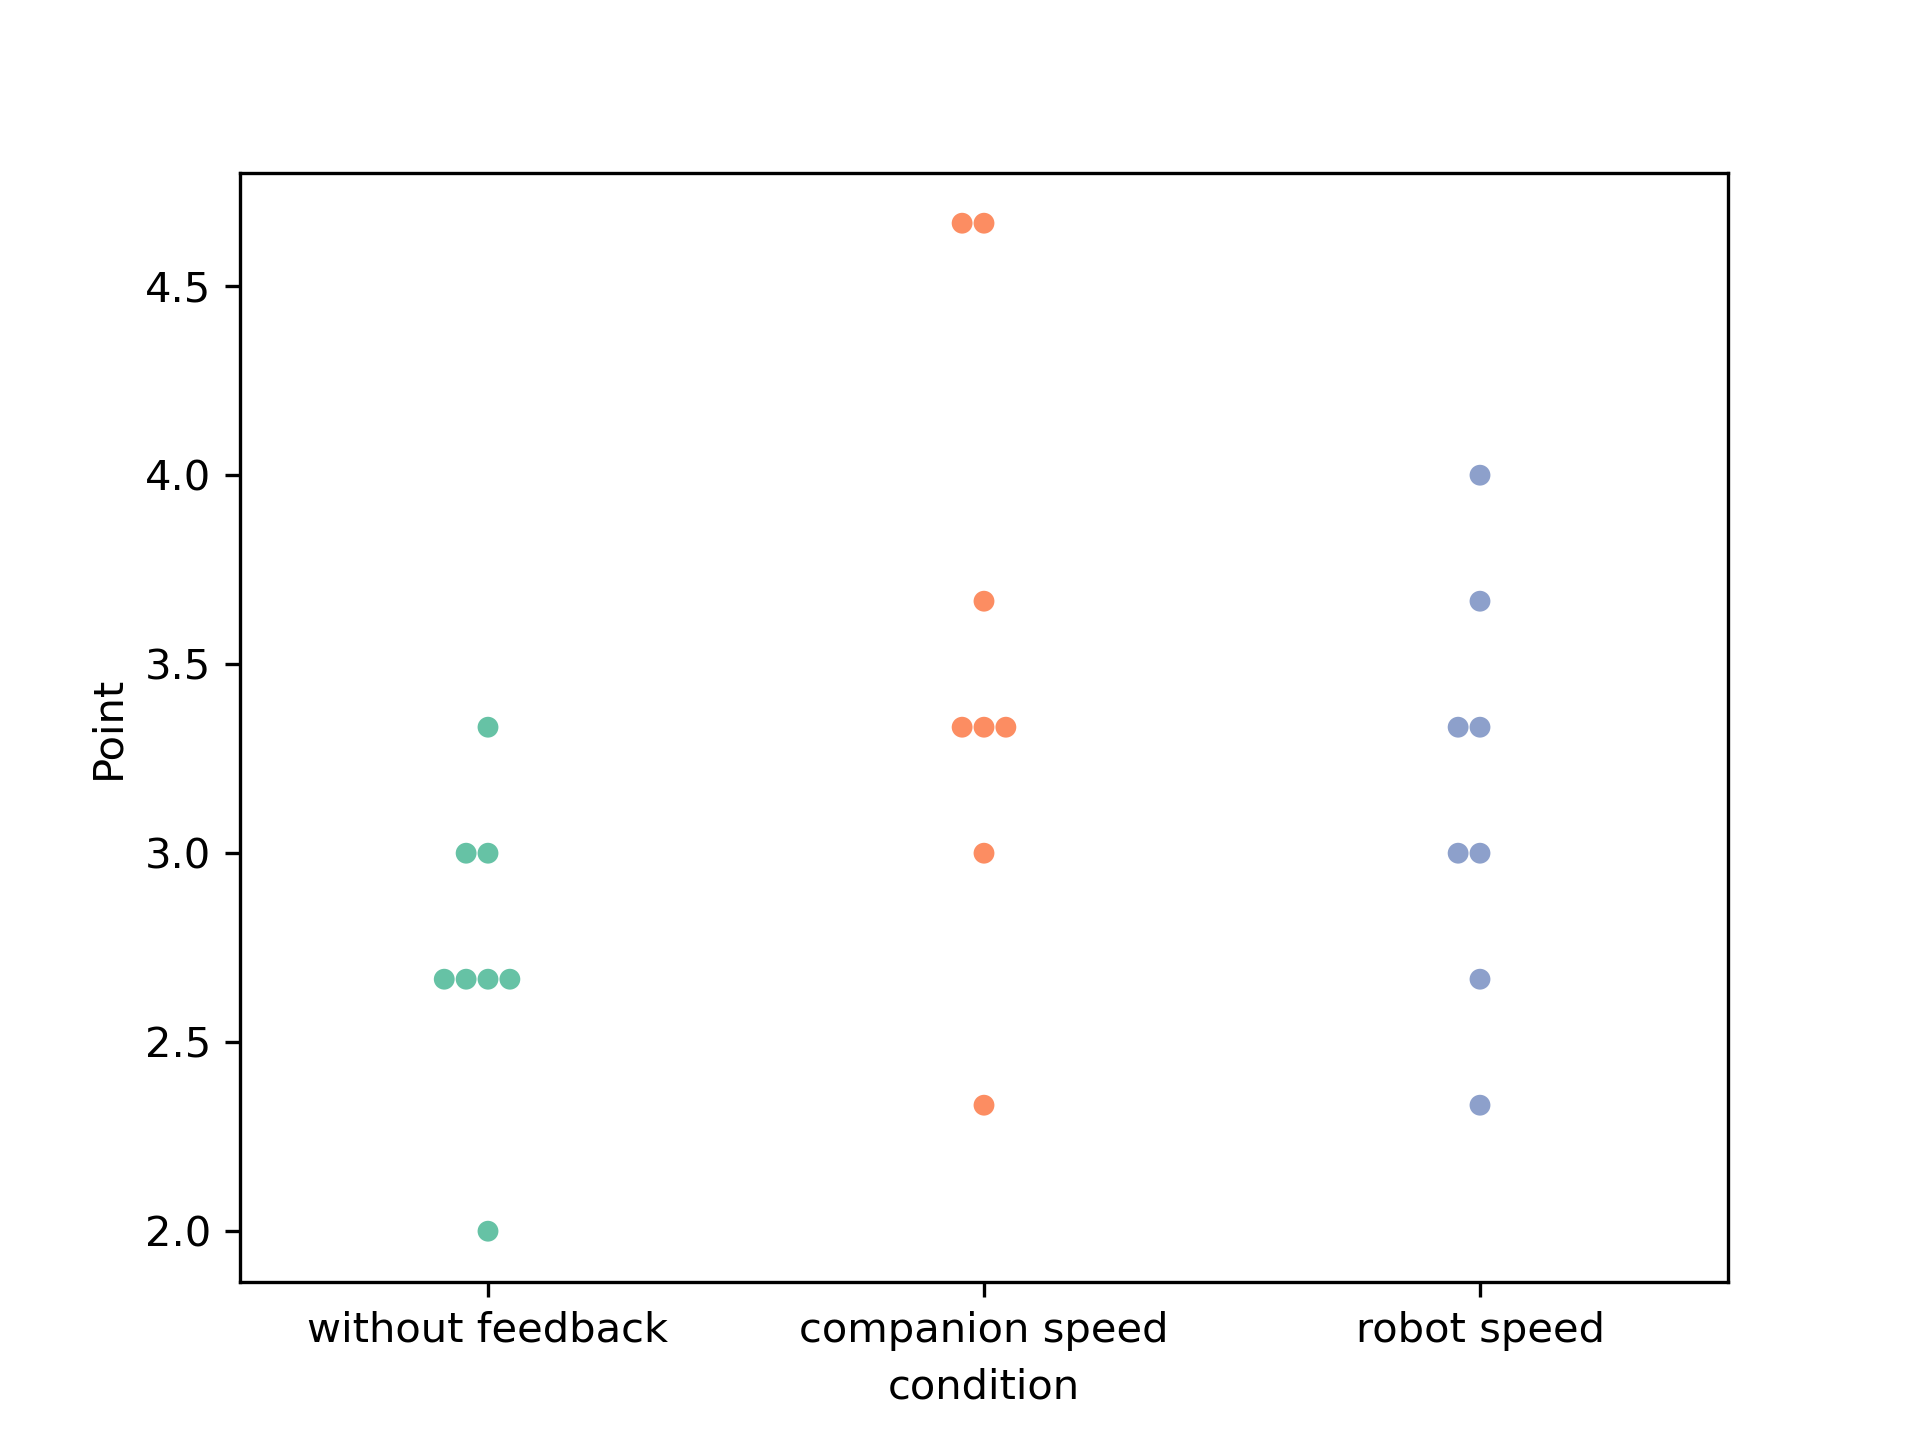
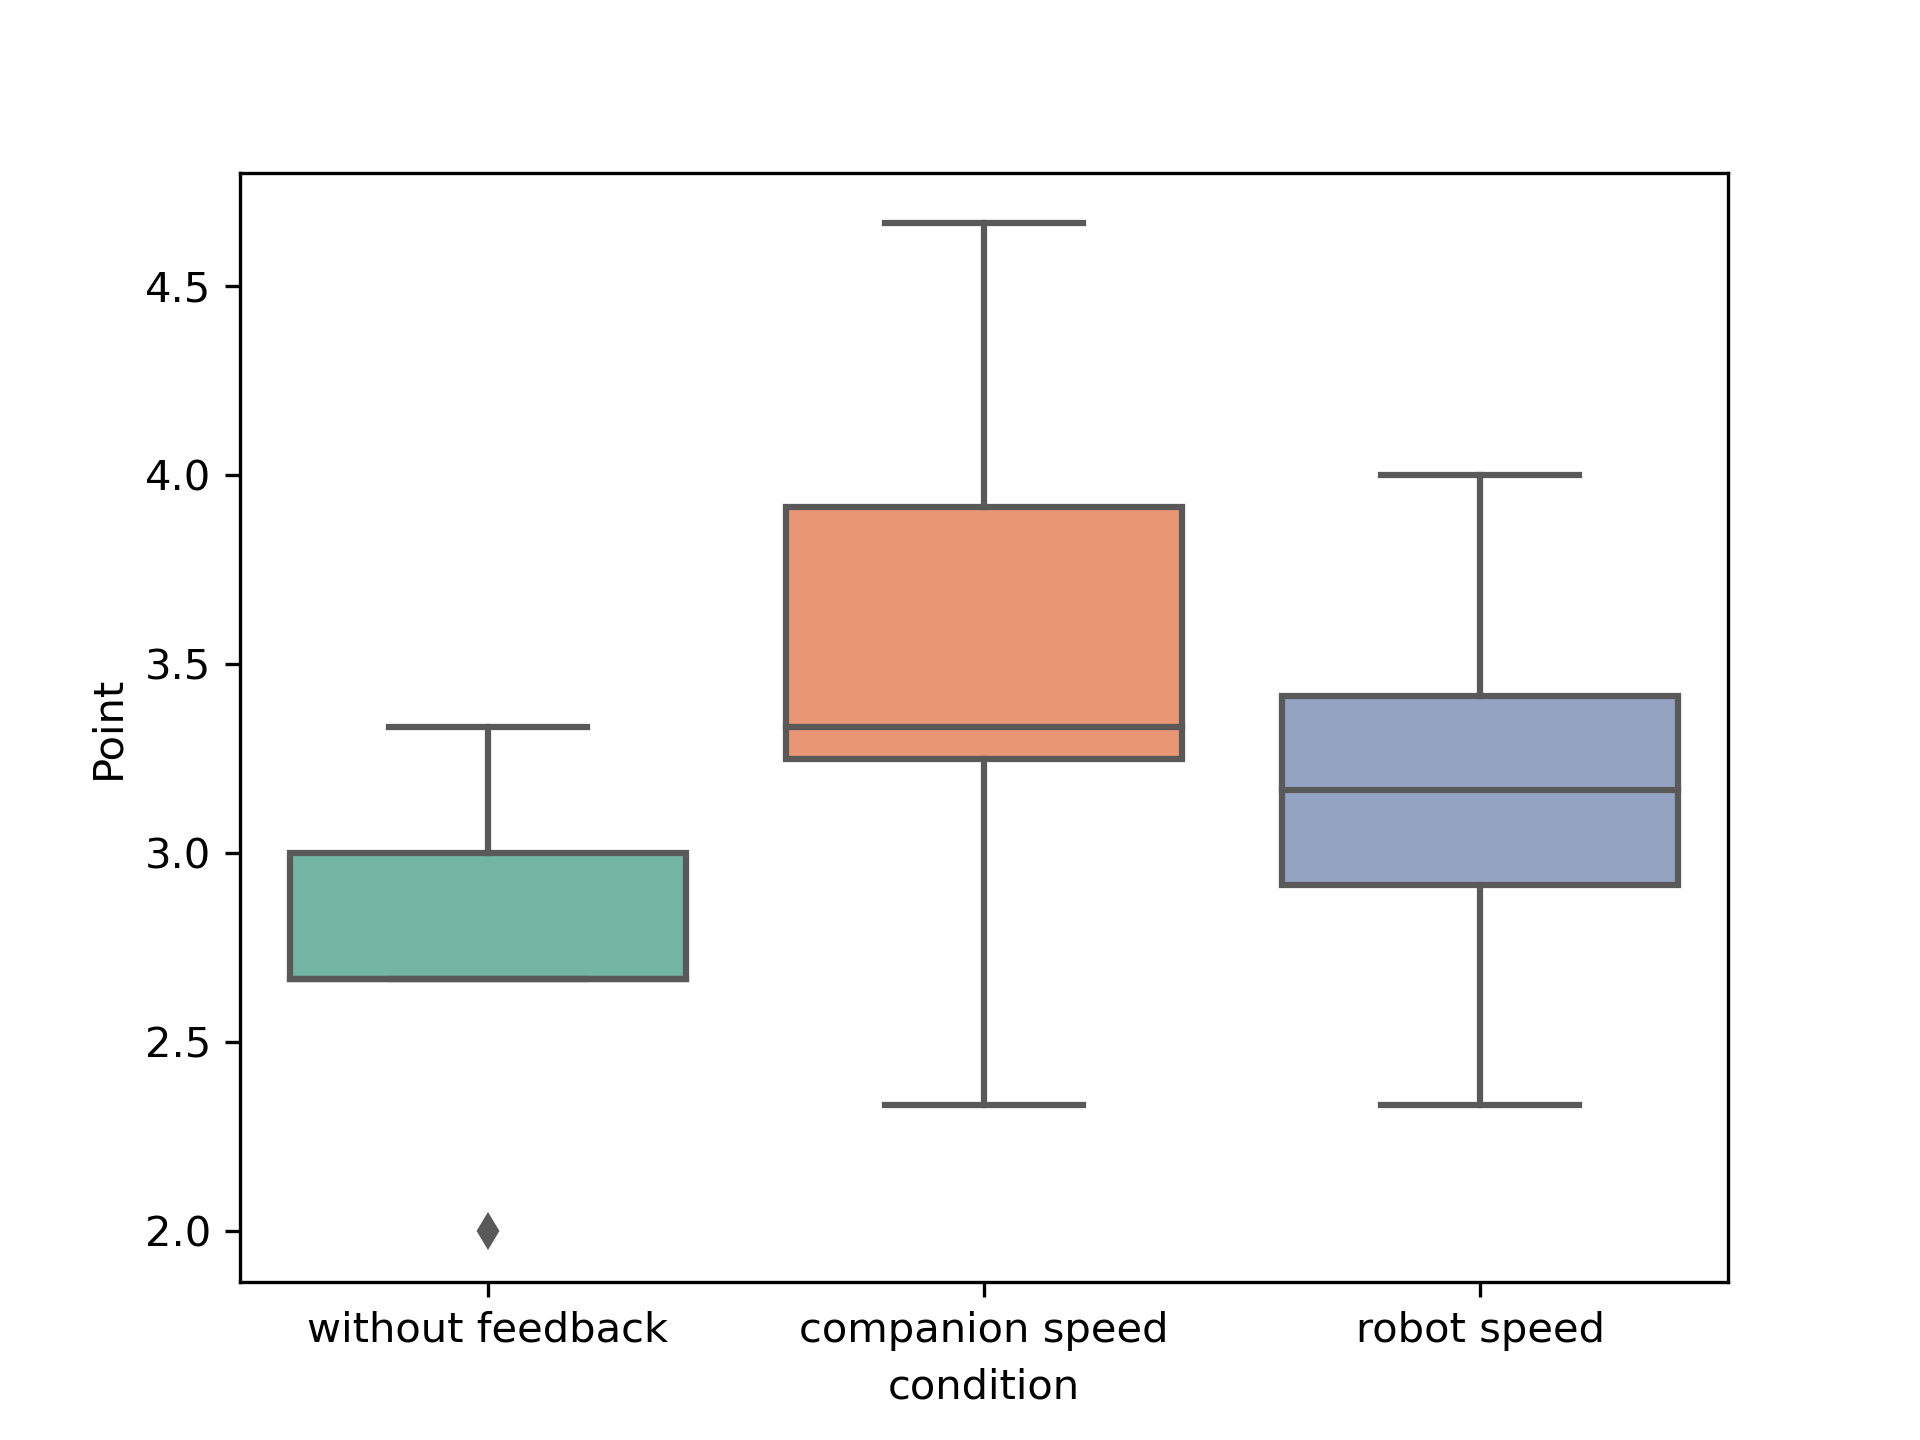
experiment result

diff --git a/data/analysis_calculate.py b/data/analysis_calculate.py
@@ -230,6 +230,7 @@ class M_IMAGE:
 		self.fig_TIME()
 		self.fig_POINTS()
 		self.fig_POINTS_TIME()
+		self.fig_POINTS_TIME_ALL()
 
 	def fig_dtw(self):
 		self.condition = []
@@ -255,7 +256,7 @@ class M_IMAGE:
 					self.value.append(self.i[name])
 		self.DTW_df = pd.DataFrame({'condition':self.condition,'':self.item,'DTW score':self.value})
 		sns.set_palette('Set2')
-		self.ax = sns.swarmplot(x='condition', y='DTW score', data=self.DTW_df)
+		self.ax = sns.boxplot(x='condition', y='DTW score', data=self.DTW_df)
 		plt.savefig('data/ExportData/graph/DTW_SCORE.png', dpi=300, format='png')
 		plt.figure()
 
@@ -283,7 +284,7 @@ class M_IMAGE:
 					self.value.append(self.i[name])
 		self.JRK_df = pd.DataFrame({'condition':self.condition,'':self.item,'Jerk Index':self.value})
 		sns.set_palette('Set2')
-		self.ax = sns.swarmplot(x='condition', y='Jerk Index', data=self.JRK_df)
+		self.ax = sns.boxplot(x='condition', y='Jerk Index', data=self.JRK_df)
 		plt.savefig('data/ExportData/graph/JRK_SCORE.png', dpi=300, format='png')
 		plt.figure()
 
@@ -307,7 +308,7 @@ class M_IMAGE:
 				self.value.append(self.i[name])
 		self.TIME_df = pd.DataFrame({'condition':self.condition,'':self.item,'Task Time [s]':self.value})
 		sns.set_palette('Set2')
-		self.ax = sns.swarmplot(x='condition', y='Task Time [s]', data=self.TIME_df)
+		self.ax = sns.boxplot(x='condition', y='Task Time [s]', data=self.TIME_df)
 		plt.savefig('data/ExportData/graph/TASK_TIME.png', dpi=300, format='png')
 		plt.figure()
 
@@ -331,7 +332,7 @@ class M_IMAGE:
 				self.value.append(self.i[name])
 		self.POINT_df = pd.DataFrame({'condition':self.condition,'':self.item,'Point':self.value})
 		sns.set_palette('Set2')
-		self.ax = sns.swarmplot(x='condition', y='Point', data=self.POINT_df)
+		self.ax = sns.boxplot(x='condition', y='Point', data=self.POINT_df)
 		plt.savefig('data/ExportData/graph/TASK_POINTS.png', dpi=300, format='png')
 		plt.figure()
 
@@ -340,7 +341,7 @@ class M_IMAGE:
 		self.value = []
 		self.time = []
 		self.point = []
-		self.path = '/Users/sprout/OneDrive - 名古屋工業大学/学校/研究室/実験/卒論実験/m_calculate/ALL_TIME_POINT.xlsx'
+		self.path = '/Users/sprout/OneDrive - 名古屋工業大学/学校/研究室/実験/卒論実験/m_calculate/TASK_TIME.xlsx'
 		self.data = pd.read_excel(self.path, sheet_name=None, index_col=0)
 		for key in self.data.keys():
 			self.data_df = self.data[key]
@@ -361,6 +362,18 @@ class M_IMAGE:
 		sns.set_palette('Set2')
 		sns.scatterplot(data=self.PT_df, x='Task Time [s]', y='Point', hue='')
 		plt.savefig('data/ExportData/graph/TIME_POINTS.png', dpi=300, format='png')
+		plt.figure()
+
+	def fig_POINTS_TIME_ALL(self):
+		self.condition = []
+		self.value = []
+		self.time = []
+		self.point = []
+		self.path = '/Users/sprout/OneDrive - 名古屋工業大学/学校/研究室/実験/卒論実験/m_calculate/ALL_TIME_POINT.xlsx'
+		self.data = pd.read_excel(self.path, sheet_name=0, index_col=0)
+		sns.set_palette('Set2')
+		sns.scatterplot(data=self.data, x='time', y='point', hue='condition')
+		plt.savefig('data/ExportData/graph/ALL_TIME_POINTS.png', dpi=300, format='png')
 		plt.figure()
 
 if __name__ in '__main__':

diff --git a/data/time_calculate.py b/data/time_calculate.py
@@ -144,17 +144,21 @@ class TIME_CALCULATE:
 		self.averageP_list_A = []
 		self.averageP_list_B = []
 		self.averageP_list_C = []
+		self.Export_df_t = pd.DataFrame(index=['A','B','C'])
+		self.Export_df_p = pd.DataFrame(index=['A','B','C'])
 		self.participant_l()
 		for i in self.participant_list:
 			self.time_c(participant=i)
-			for j in range(len(self.time_A)):
-				self.average_list_A.append(self.time_A[j])
-				self.average_list_B.append(self.time_B[j])
-				self.average_list_C.append(self.time_C[j])
-				self.averageP_list_A.append(self.points_A[j])
-				self.averageP_list_B.append(self.points_B[j])
-				self.averageP_list_C.append(self.points_C[j])
-		self.Export_df = pd.DataFrame({''})
+			self.average_list_A.append(self.average_A)
+			self.average_list_B.append(self.average_B)
+			self.average_list_C.append(self.average_C)
+			self.averageP_list_A.append(self.averageP_A)
+			self.averageP_list_B.append(self.averageP_B)
+			self.averageP_list_C.append(self.averageP_C)
+		for i, j in enumerate(self.participant_list):
+			self.Export_df_t[j] = [self.average_list_A[i],self.average_list_B[i],self.average_list_C[i]]
+			self.Export_df_p[j] = [self.averageP_list_A[i],self.averageP_list_B[i],self.averageP_list_C[i]]
+		self.Export_df = [self.Export_df_t,self.Export_df_p]
 		self.toXlsx_list(evaluation='TASK_TIME', df_l=self.Export_df)
 
 	def ALL_save_time(self):
@@ -178,7 +182,7 @@ class TIME_CALCULATE:
 			self.condition.append('companion speed')
 		for l in range(len(self.time_C_l)):
 			self.condition.append('robot speed')
-		self.Export_df = pd.DataFrame({'time':self.time_ll,'':self.condition,'point':self.point_ll})
+		self.Export_df = pd.DataFrame({'time':self.time_ll,'condition':self.condition,'point':self.point_ll})
 		print(self.Export_df)
 		self.Export_df.to_excel('/Users/sprout/OneDrive - 名古屋工業大学/学校/研究室/実験/卒論実験/m_calculate/ALL_TIME_POINT.xlsx')
 
@@ -209,6 +213,5 @@ class TIME_CALCULATE:
 
 if __name__ in '__main__':
 	read = TIME_CALCULATE()
-	# read.time_c(participant='Nakamura')
-	# read.save_time()
+	read.save_time()
 	read.ALL_save_time()
